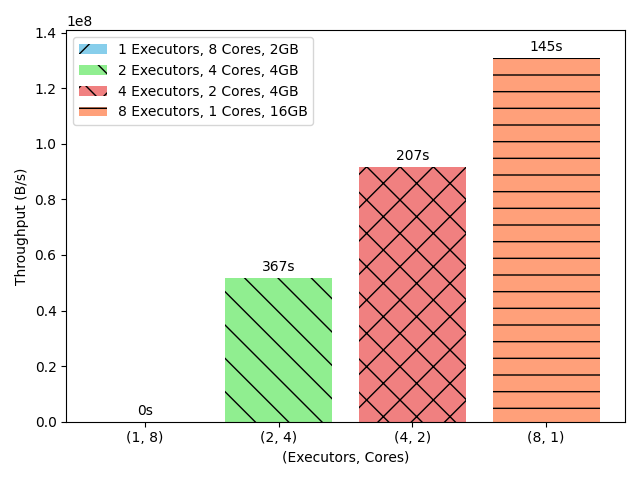
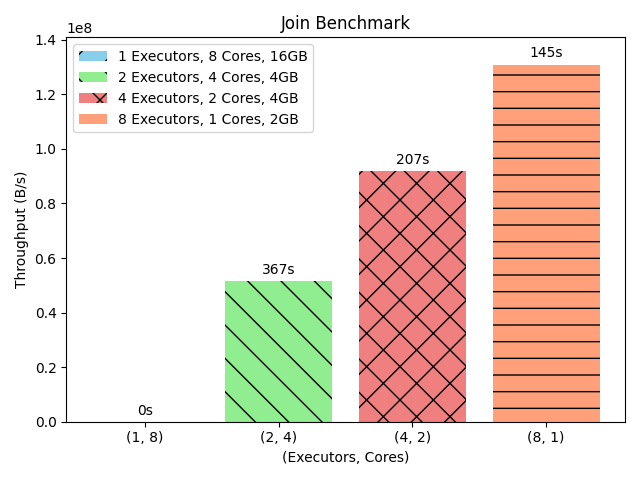
fix: a plot label

diff --git a/plot/plot_experiment_1.py b/plot/plot_experiment_1.py
@@ -50,8 +50,9 @@ elif benchmark_name == 'Join':
 elif benchmark_name == 'RF':
     plt.ylim(0, max(rf_throughputs) + 1000000)
 
-legend_labels = ['1 Executors, 8 Cores, 2GB', '2 Executors, 4 Cores, 4GB', '4 Executors, 2 Cores, 4GB', '8 Executors, 1 Cores, 2GB']
+legend_labels = ['1 Executors, 8 Cores, 16GB', '2 Executors, 4 Cores, 4GB', '4 Executors, 2 Cores, 4GB', '8 Executors, 1 Cores, 2GB']
 plt.legend(bars, legend_labels)
+plt.title(benchmark_name + ' Benchmark')
 plt.tight_layout()
 plt.savefig('figures/experiment_1_' + benchmark_name + '_results.png')
 plt.show()
